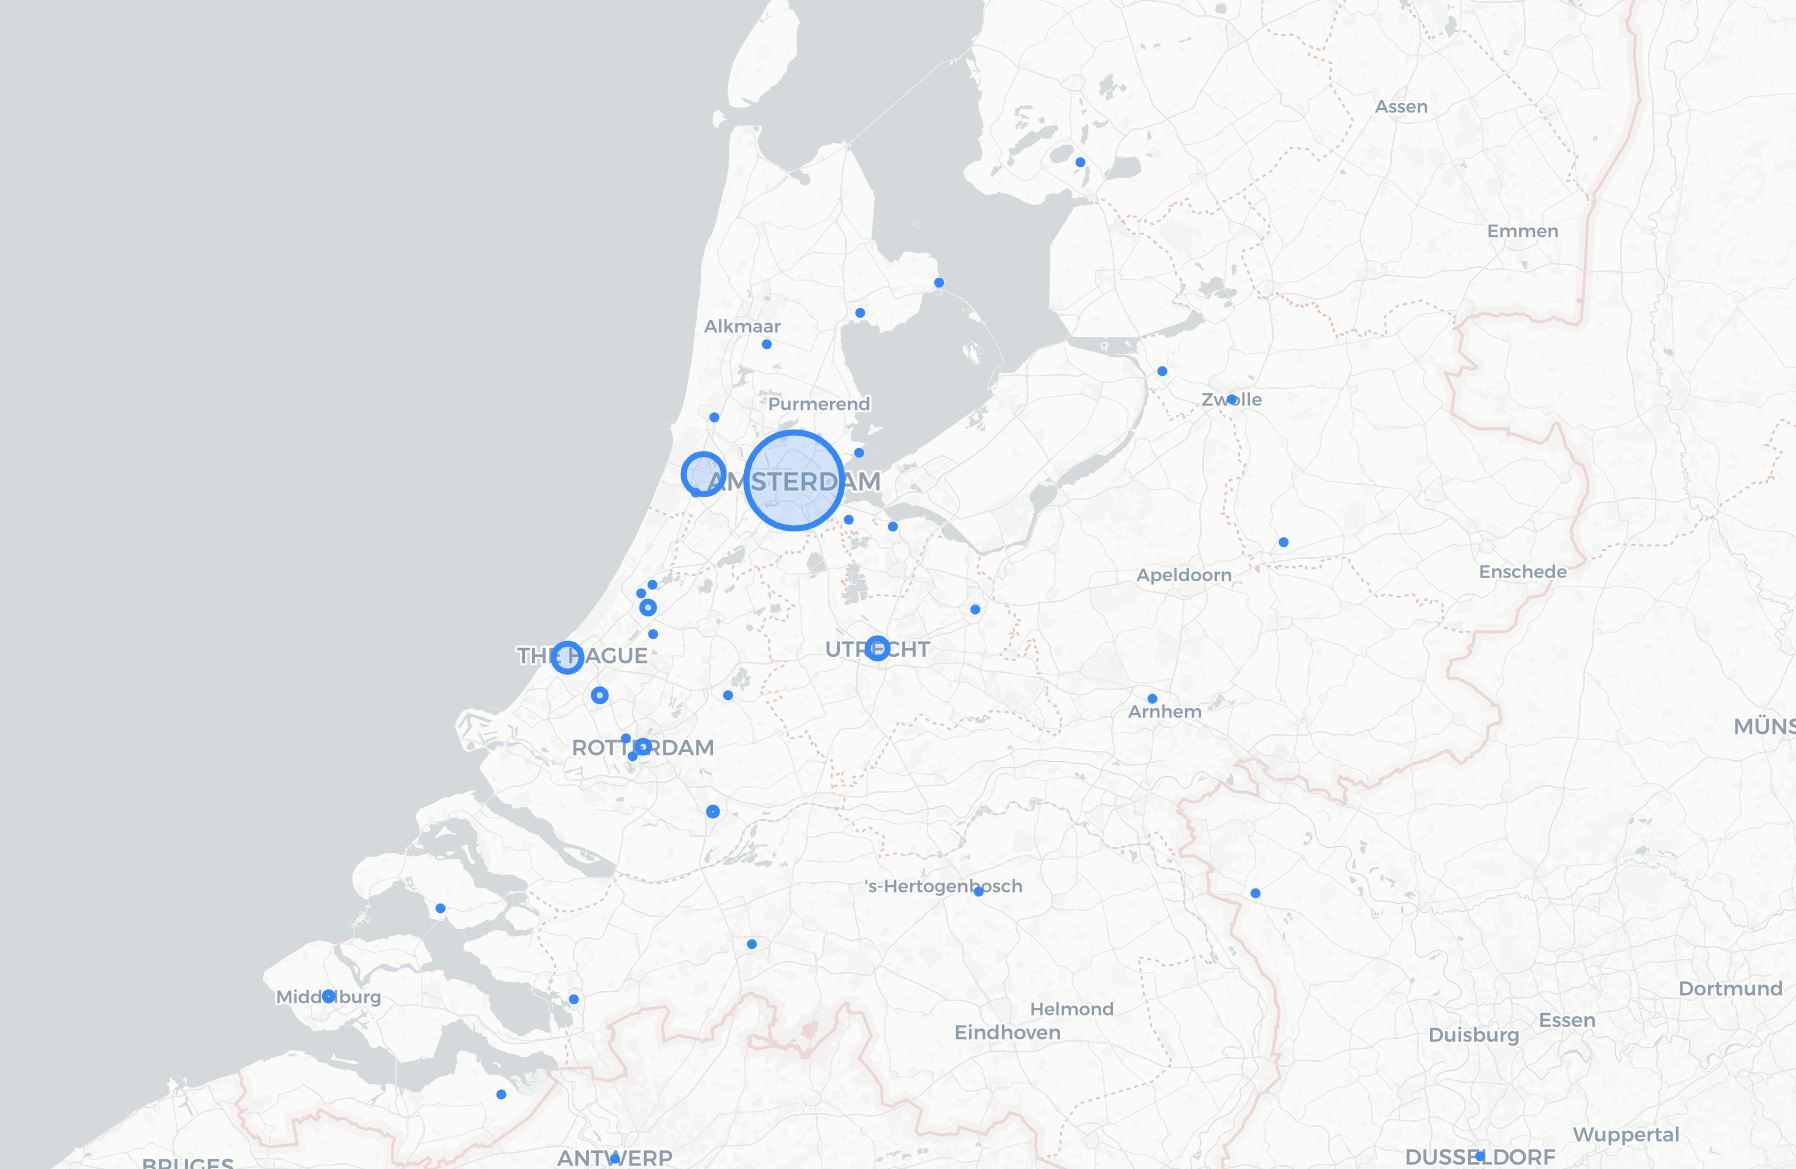
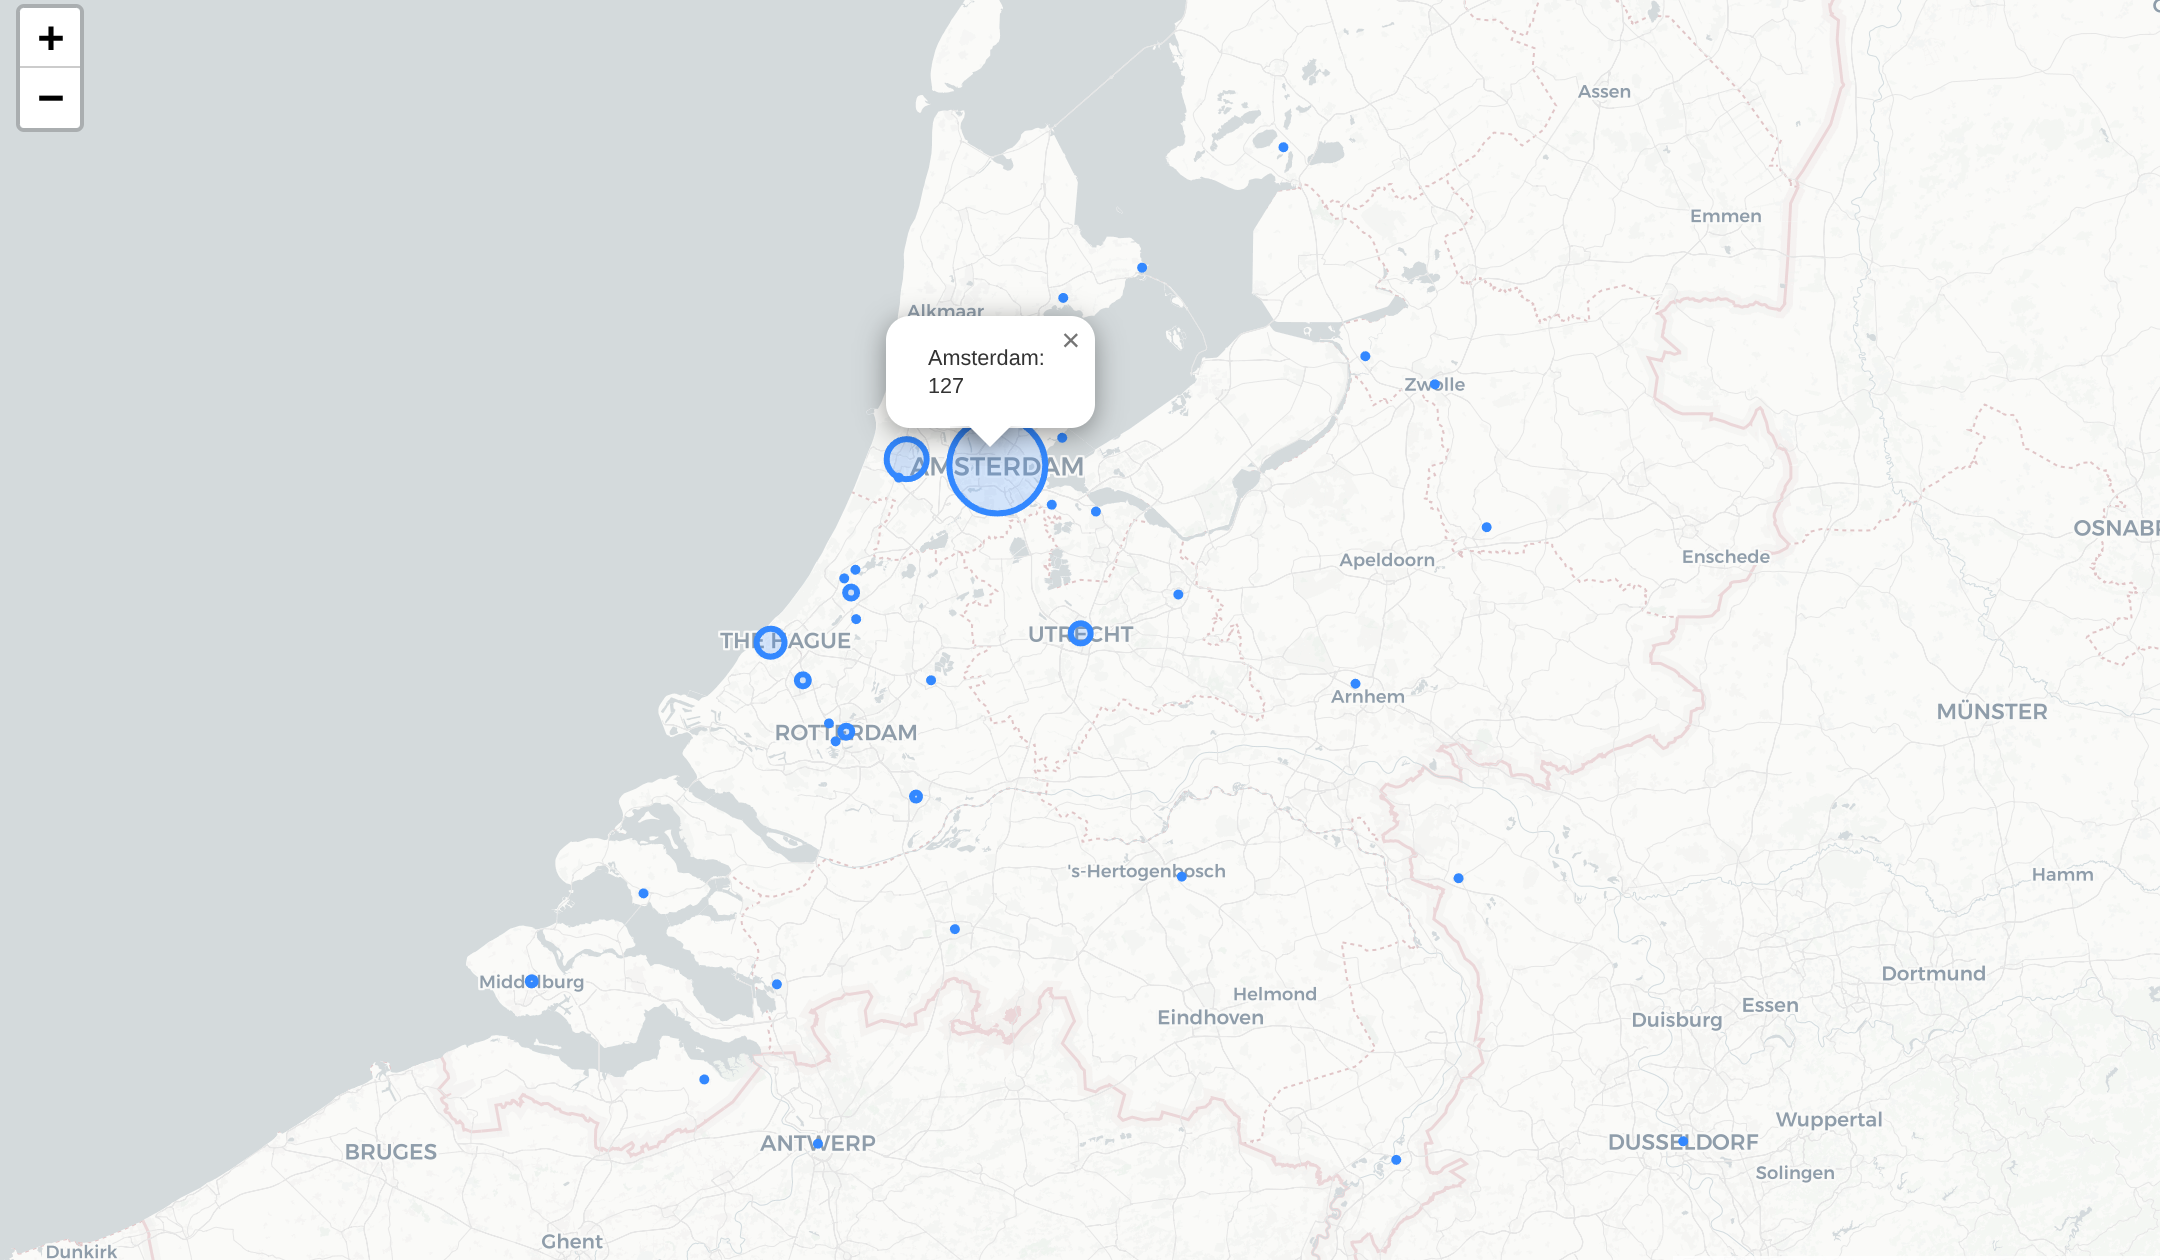
readme png updated

diff --git a/README.md b/README.md
@@ -49,5 +49,5 @@ The main dataset can be found in the following file:
 
 A geographical analysis of the data can be found the folium_analysis notebook.
 
-Preview:
+Preview of the places of death count of painters:
 <img src="preview.png"></img>
